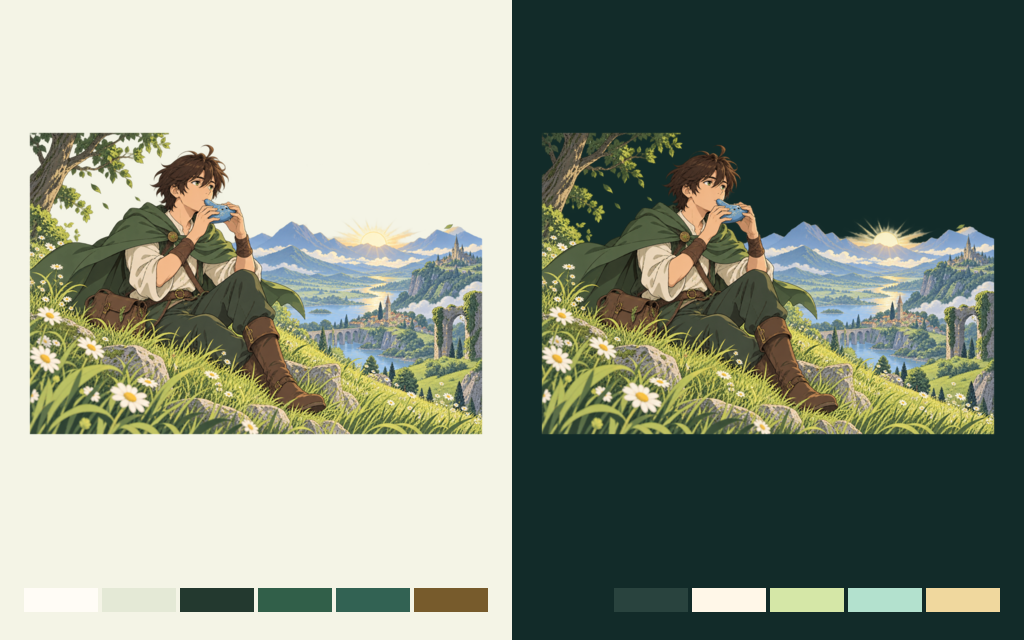
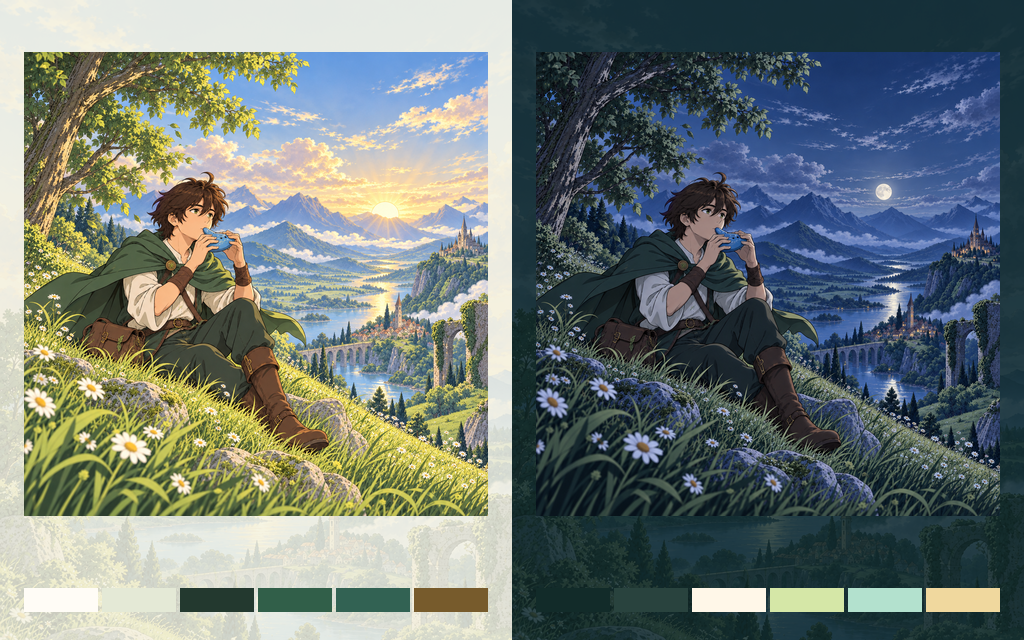
fix: repair Ocarina Home scene framing (#96)

diff --git a/src/ocarina-of-dawn/HOME-REPAIR-PROMPTS.md b/src/ocarina-of-dawn/HOME-REPAIR-PROMPTS.md
@@ -1,0 +1,37 @@
+# Full-bleed Home cover repair
+
+Built-in OpenAI imagegen edits, 2026-10-16. Theme-owned inputs only. The original character, seated pose and complete blue ocarina remain the preservation constraints. Each output is a square opaque painting with continuous top and side edges; native layout supplies the bottom fade.
+
+## home-modern.png
+
+Edit target: `assets/home-modern.png` from version 1.1.7.
+
+Use case: identity-preserve, environmental outpaint.
+Asset type: square full-bleed Home cover illustration for the existing Ocarina of Dawn theme.
+Input image 1 is the edit target: retain the same original chestnut-haired young adult male fantasy traveler, same face, sage green cloak, cream shirt, forest trousers, brown boots, satchel, same seated side-facing pose and BOTH HANDS correctly playing the same complete blue ceramic ocarina. Preserve original fine anime ink linework, cel shading and meadow/daisies/mountain-lake/viaduct/castle setting. Do not redesign the character.
+Repair only the cutout-like composition by filling the missing sky and extending the environment naturally to ALL FOUR canvas edges. Produce a complete integrated square painting, not an isolated cutout or a picture pasted on another background. The tree must grow naturally beyond the top/left frame without any inset straight chopped top or left edge. The scenery reaches every pixel on the top and sides. Reframe by expanding the scene vertically: keep the character around the middle, face centered around x=0.40 and y=0.39, boots within x=0.20..0.78 and y<=0.86. Upper quarter is calm pale gold-to-blue dawn sky and restrained tree foliage at far left, leaving room for native controls. Preserve the readable blue ocarina and natural hand positions, complete head and both feet. Wide valley to the right, sunrise near the mountain horizon. Lower grasses support a soft in-app fade and contain no essential subject details in the bottom 12%.
+Lighting: soft pale-gold dawn, sage and sky blue, match the theme's existing light scenery. No modern objects, extra people, words, lettering, logo, UI, frame or watermark. FULLY OPAQUE square illustration, no transparency, no blank margins, no collage seams. Save output locally.
+
+## home-modern-dark.png
+
+Edit target: the new `assets/home-modern.png`. Lighting reference: the existing `assets/scenery-dark-continuity.png`.
+
+Use case: lighting-weather.
+Asset type: Ocarina of Dawn dark-mode Home cover.
+Image 1 is the exact edit target, the repaired full-bleed square dawn painting. Image 2 supplies only the existing theme's night-lighting palette.
+Change ONLY illumination and sky time of day of image 1 into a quiet olive-indigo blue-hour/moonlit valley matching image 2. Preserve the exact square composition, edges, SAME male traveler identity, chestnut hair, face, green cloak, cream shirt, leather satchel, seated pose, every hand/finger and blue ocarina, boots, daisies, tree, mountains, lake, viaduct, ruins and distant castle. Keep character and ocarina readable with cool gentle moonlight, restrained highlights on face and hands, warm tiny distant window lights. Replace the bright sun with a subtle moon above the mountain horizon. No golden daylight sun or bright daytime foreground, no intense neon or bloom. The upper quarter remains quiet for native controls. Full integrated painting to ALL edges, no transparent sky or cutout or inset borders. Fully opaque square PNG, no new people, text, UI, logos, watermarks or props. This is a matching lighting variant, not a redesign. Save locally.
+
+## home-wide-light.png
+
+Edit target: the repaired `assets/home-modern.png`.
+
+Use case: identity-preserve / environmental outpaint.
+Input image is the repaired Ocarina of Dawn light Home cover. Create a matching LANDSCAPE 3:2 version (1536x1024) for wide/tablet layout crops. Preserve this EXACT character identity, face, seated pose, dark hair, green cloak, cream shirt, both hands playing the complete blue ocarina, satchel, trousers, boots and drawn linework; keep the same dawn valley, lake, bridge, mountain, castle, tree and daisies. Reframe by outpainting the environment on the sides rather than redesigning the subject. The figure's face and instrument stay in the central safe area: face around x=0.43,y=0.32, instrument around x=0.48,y=0.43; both visible in the central 40% horizontal strip so portrait tablet panels can crop the sides. Keep subject complete where possible, and the upper 20% quiet for native controls. Natural sky/tree/scenery continues to every edge, no inset straight margins, transparent holes or collage. Fully opaque landscape painting, same fine anime ink / cel-shaded style and pale-gold/sage/blue lighting, no new people, text, UI, logos or props. This is the same painting adapted to a wider canvas, not a redesign. Save locally.
+
+## home-wide-dark.png
+
+Edit target: `assets/home-wide-light.png`. Lighting reference: `assets/home-modern-dark.png`.
+
+Use case: lighting-weather.
+Image 1 is the exact edit target: the Ocarina of Dawn 3:2 wide cover painting. Image 2 is the approved square dark-mode lighting reference.
+Change ONLY light/time of day in image 1 to match image 2: calm olive-indigo moonlit blue hour, soft cool moonlight on face and hands, subtle warm distant window lights, a small moon replacing the dawn sun. Preserve exact wide framing and all composition, character identity, hair, face, seated pose, green cloak and cream shirt, BOTH hands playing the same blue ocarina, satchel, boots, meadow, tree, lake, bridge, mountains, ruins and castle. Do not move the subject or change proportions. Keep central safe face/instrument zone unchanged. Fully opaque LANDSCAPE 3:2 PNG (1536x1024), continuous sky/scenery at every edge, no cutout/transparent holes/inset margins, no new characters, objects, text, UI, logos or watermarks. This is a lighting variant, not a redesign. Save locally.

diff --git a/src/ocarina-of-dawn/DESIGN.md b/src/ocarina-of-dawn/DESIGN.md
@@ -1,11 +1,37 @@
-# Ocarina of Dawn
+# Ocarina of Dawn Home composition
 
-A quiet, unofficial Zelda-inspired watercolor theme. Original forest ruins, mossy sword pedestals, a blue ceramic ocarina and delicate ferns evoke a woodland adventure. Mist, sage and pale gold give way to deep forest tones at night. All compositions are newly generated rather than copied from game artwork.
+Version 1.1.8 repairs the artwork and framing shared by Classic and Editorial. The previous 1400×945 picture combined an opaque meadow and a chopped tree with transparent sky/margins. In a standard contain-fit band it read as an inset scenic cutout. Dark mode also reused its bright sunrise against a separate moonlit wallpaper.
 
-Leaf, fletched-arrow and grappling-loop glyphs replace back, send and attach as alpha templates. Each was reviewed at 17 px and 34 px in both palette tints. The full UI and terminal palettes pass CLI 1.9.0 contrast checks: shared floors are 90% for surfaces and 91% for terminal, below authored 95% and 97% defaults.
+The repair follows the collection's full-scene covers, including Aegean Paperlight and Acacia Afterglow. The same traveler, seated pose, green cloak, complete blue ocarina and meadow/valley remain. Environmental outpainting closes the top and side edges. Matching dawn and moonlit paintings keep the character readable in both modes.
 
-## Preview review
+| Mode | Width class | Home image | Size | Fit | Focal point |
+| --- | --- | --- | --- | --- | --- |
+| light | compact | `home-modern` | 1254×1254 | cover | 0.5, 0 |
+| dark | compact | `home-modern-dark` | 1254×1254 | cover | 0.5, 0 |
+| light | regular | `home-wide-light` | 1536×1024 | cover | 0.5, 0 |
+| dark | regular | `home-wide-dark` | 1536×1024 | cover | 0.5, 0 |
 
-## Unified Home artwork
+`homePresentation.header` uses the existing cover composition. All four images have opaque upper/side edges, so the App classifies them as scenes and fills the available cover frame; the native bottom mask supplies the fade. Compact square and regular landscape variants preserve the face and instrument through different crops. These are width classes, not a theme-selected layout.
 
-Classic and Editorial resolve one `home.artwork` foreground, using the manifest’s light/dark and compact/regular overrides. `home.wallpaper` remains the independent wallpaper. The layout positions the foreground; it never stacks a second Home illustration. `homeIdentity.artwork` controls default visibility. Startup reuses the same foreground unless an explicit `launch.artwork` preserves a distinct launch composition. Existing artwork filenames are retained; they do not identify rendering slots.
+The Home title defaults to hidden, as on comparable complete scenic covers. Native review caught the previous large “Dawn” title covering the traveler's face after switching to cover framing. The gallery name remains Ocarina of Dawn. Existing toolbar backgrounds remain enabled. Home wallpaper opacity is reduced to 0.18 light / 0.20 dark so the landscape behind session text is quieter. Shell wallpaper, palette, interface fill opacity, icons, materials, startup and empty-state character remain unchanged.
+
+## Home input resolution
+
+Classic and Editorial use the same input slots. Compact/regular image objects replace the complete base image. Both width entries retain contain fit, focal point 0.5,0 and all-zero outsets; `home.composer.decoration` stays explicitly null.
+
+| Mode | Width | Background asset | Opacity | Outset left/right/bottom | Overhang |
+| --- | --- | --- | --- | --- | --- |
+| light | compact | composer-corner-continuity | 0.24 | 0/0/0 | none |
+| light | regular | composer-corner-continuity | 0.24 | 0/0/0 | none |
+| dark | compact | composer-corner-continuity | 0.30 | 0/0/0 | none |
+| dark | regular | composer-corner-continuity | 0.30 | 0/0/0 | none |
+
+The separate transparent startup character remains contain-fit and is not replaced by a scenic rectangle. Missing/hidden Home artwork still follows the App's existing fallback behavior.
+
+## Verification for 1.1.8
+
+CLI 2.4.1 validation, contrast inspection, package round trip (17 assets, 3.85 MiB compressed), declared SHA-256 checks and the complete 94-theme source/preview check passed. App geometry checks covered nine widths from 320 to 1366 dp for both modes.
+
+Native screenshots were inspected on a disposable Android API 36 emulator using the current App development build: phone 1080×2400 at 420 dpi and tablet 1600×1200 at 200 dpi, Classic/Editorial preferences, light/dark (eight cases). The traveler and ocarina remain visible, scene edges are complete, and the title no longer crosses the face. Tablet uses the App's shared Pad composition for both preferences. The App was restarted after changing emulator density to avoid stale Skia scale. The parameter glyph is visible, and its options panel opens.
+
+This was an offline Home fixture with no real computer or conversation. iOS, live sending, editable long drafts, keyboard and voice states were not exercised. The composer assets/configuration, startup figure and icons are byte-for-byte unchanged; this review does not claim those untested interactions or other themes. Native screenshots remain separate QA evidence, not package/gallery artwork.

diff --git a/src/ocarina-of-dawn/CREDITS.md b/src/ocarina-of-dawn/CREDITS.md
@@ -1,12 +1,12 @@
 # Credits
 
-Current illustrations are original AI-generated work made with the built-in OpenAI image generation tool for Muqun Theme Collection on 2026-10-11. No third-party reference images. All rights reserved.
+The original story and startup illustrations were made with built-in OpenAI image generation for Muqun Theme Collection on 2026-10-11. The Home cover updates below use only theme-owned artwork as references. No third-party reference images. All rights reserved.
 
-`assets/home-modern.png` is a contemporary 2D hand-ink and cel-shaded anime story environment. `assets/launch-modern.png` is an independently generated matching full character silhouette on a transparent square canvas, reused for empty states. Generated real RGBA alpha is preserved; packaging removes unused outer transparent canvas and adds narrow margins. No subject is painted by geometry processing. Fictional subjects; no real individual portrayed. Older miniature ornament illustrations have been retired. Current briefs are in PROMPTS.md.
+`assets/home-modern.png` is a contemporary 2D hand-ink and cel-shaded anime story environment, repaired into an opaque full-scene cover as documented below. `assets/launch-modern.png` remains the independently generated full character silhouette on a transparent square canvas, reused for empty states; its original alpha and packaging margins are unchanged. Fictional subjects; no real individual portrayed. Older miniature ornament illustrations have been retired. The original briefs remain in PROMPTS.md.
 
 All seven `assets/icon-*.png` images are original geometric glyph drawings by Muqun Theme Collection under the theme license, shared with the collection's contemporary line family. Template tint preserves native readability; back source left, send and Home arrow up-right.
 
-`assets/preview.png` is a 1024×640 light/dark fictional source UI composition built from final assets/palette, not a device screenshot.
+`assets/preview.png` is a 1024×640 light/dark gallery composition of the final artwork and palette, without simulated App controls or device screenshots.
 
 ## Parameter control update
 
@@ -21,3 +21,9 @@ All seven `assets/icon-*.png` images are original geometric glyph drawings by Mu
 `assets/composer-corner-continuity.png`: original transparent theme-specific corner ornament generated with OpenAI built-in image generation on 2026-10-13. The central draft and bottom control areas are clear.
 
 Existing character, startup, glyph, palette, and gallery artwork were retained from the current published source. New artwork was copied without scripted image modification.
+
+## 2026-10-16 full-scene Home repair
+
+`assets/home-modern.png`, `assets/home-modern-dark.png`, `assets/home-wide-light.png` and `assets/home-wide-dark.png` are original built-in OpenAI imagegen edits/outpaints from this theme's existing artwork. The original traveler, pose, hands and blue ocarina are preservation constraints. The dark images change illumination; the wide images extend the environment for regular widths. Outputs are opaque paintings with continuous scene edges. Full prompts and input roles are recorded in [HOME-REPAIR-PROMPTS.md](HOME-REPAIR-PROMPTS.md); no external stock, copied game artwork or UI elements were introduced.
+
+The gallery cover was regenerated using the repository's deterministic artwork/palette compositor. The standalone startup figure, empty illustration, glyphs, input ornament, wallpapers and palette retain their existing provenance and license. See [DESIGN.md](DESIGN.md) for responsive image and Home composer declarations.
